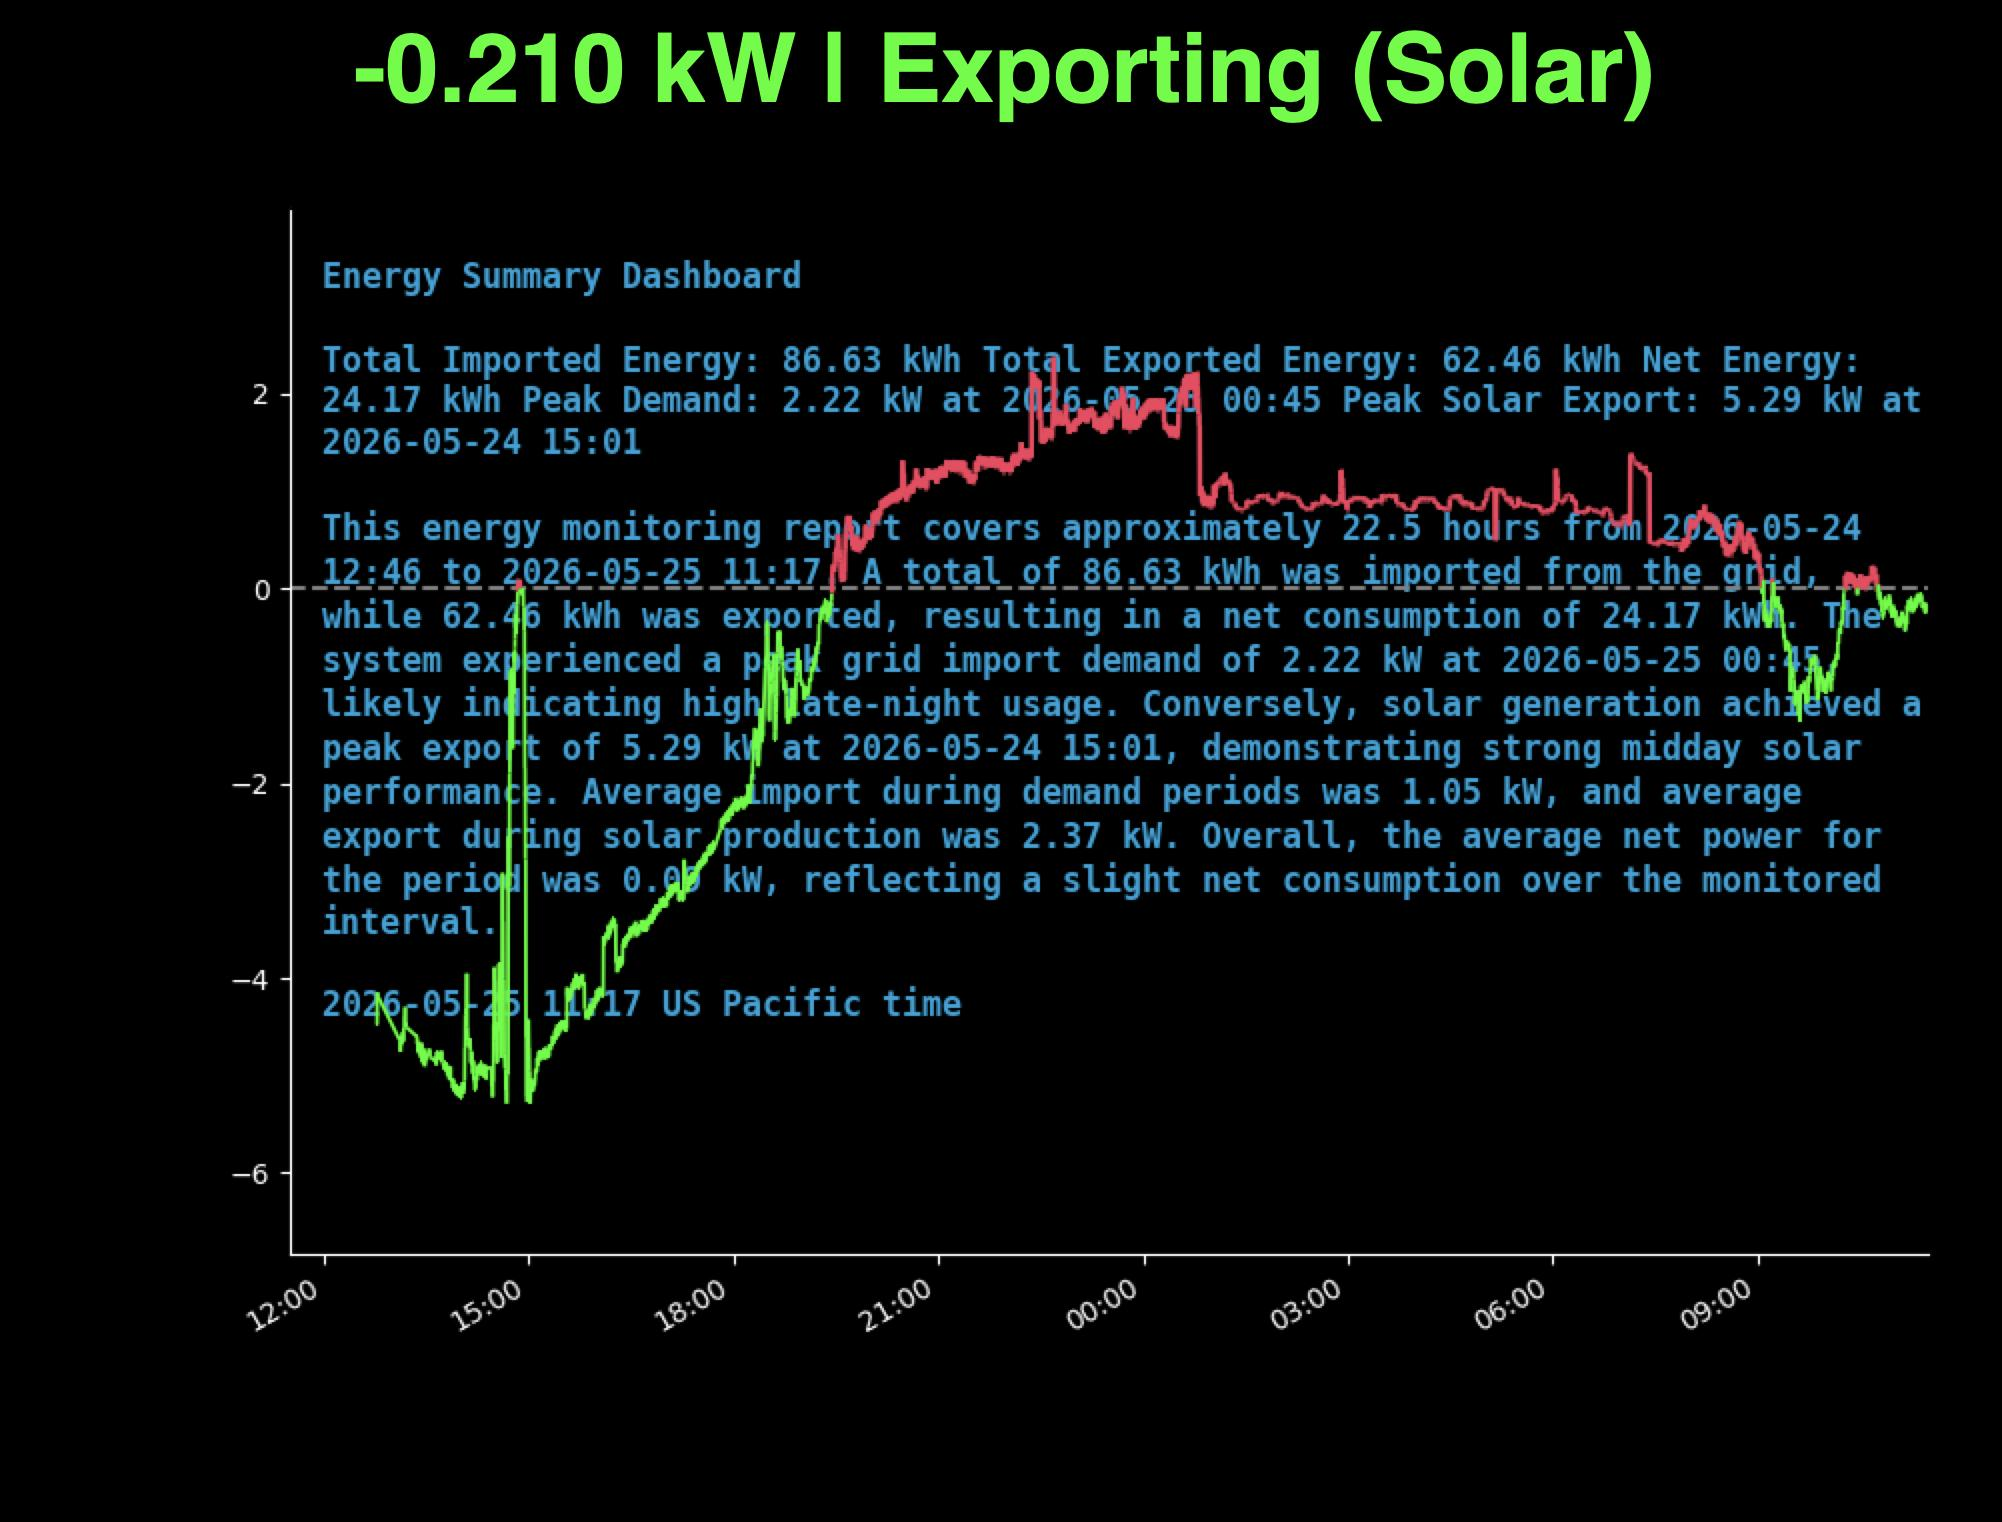
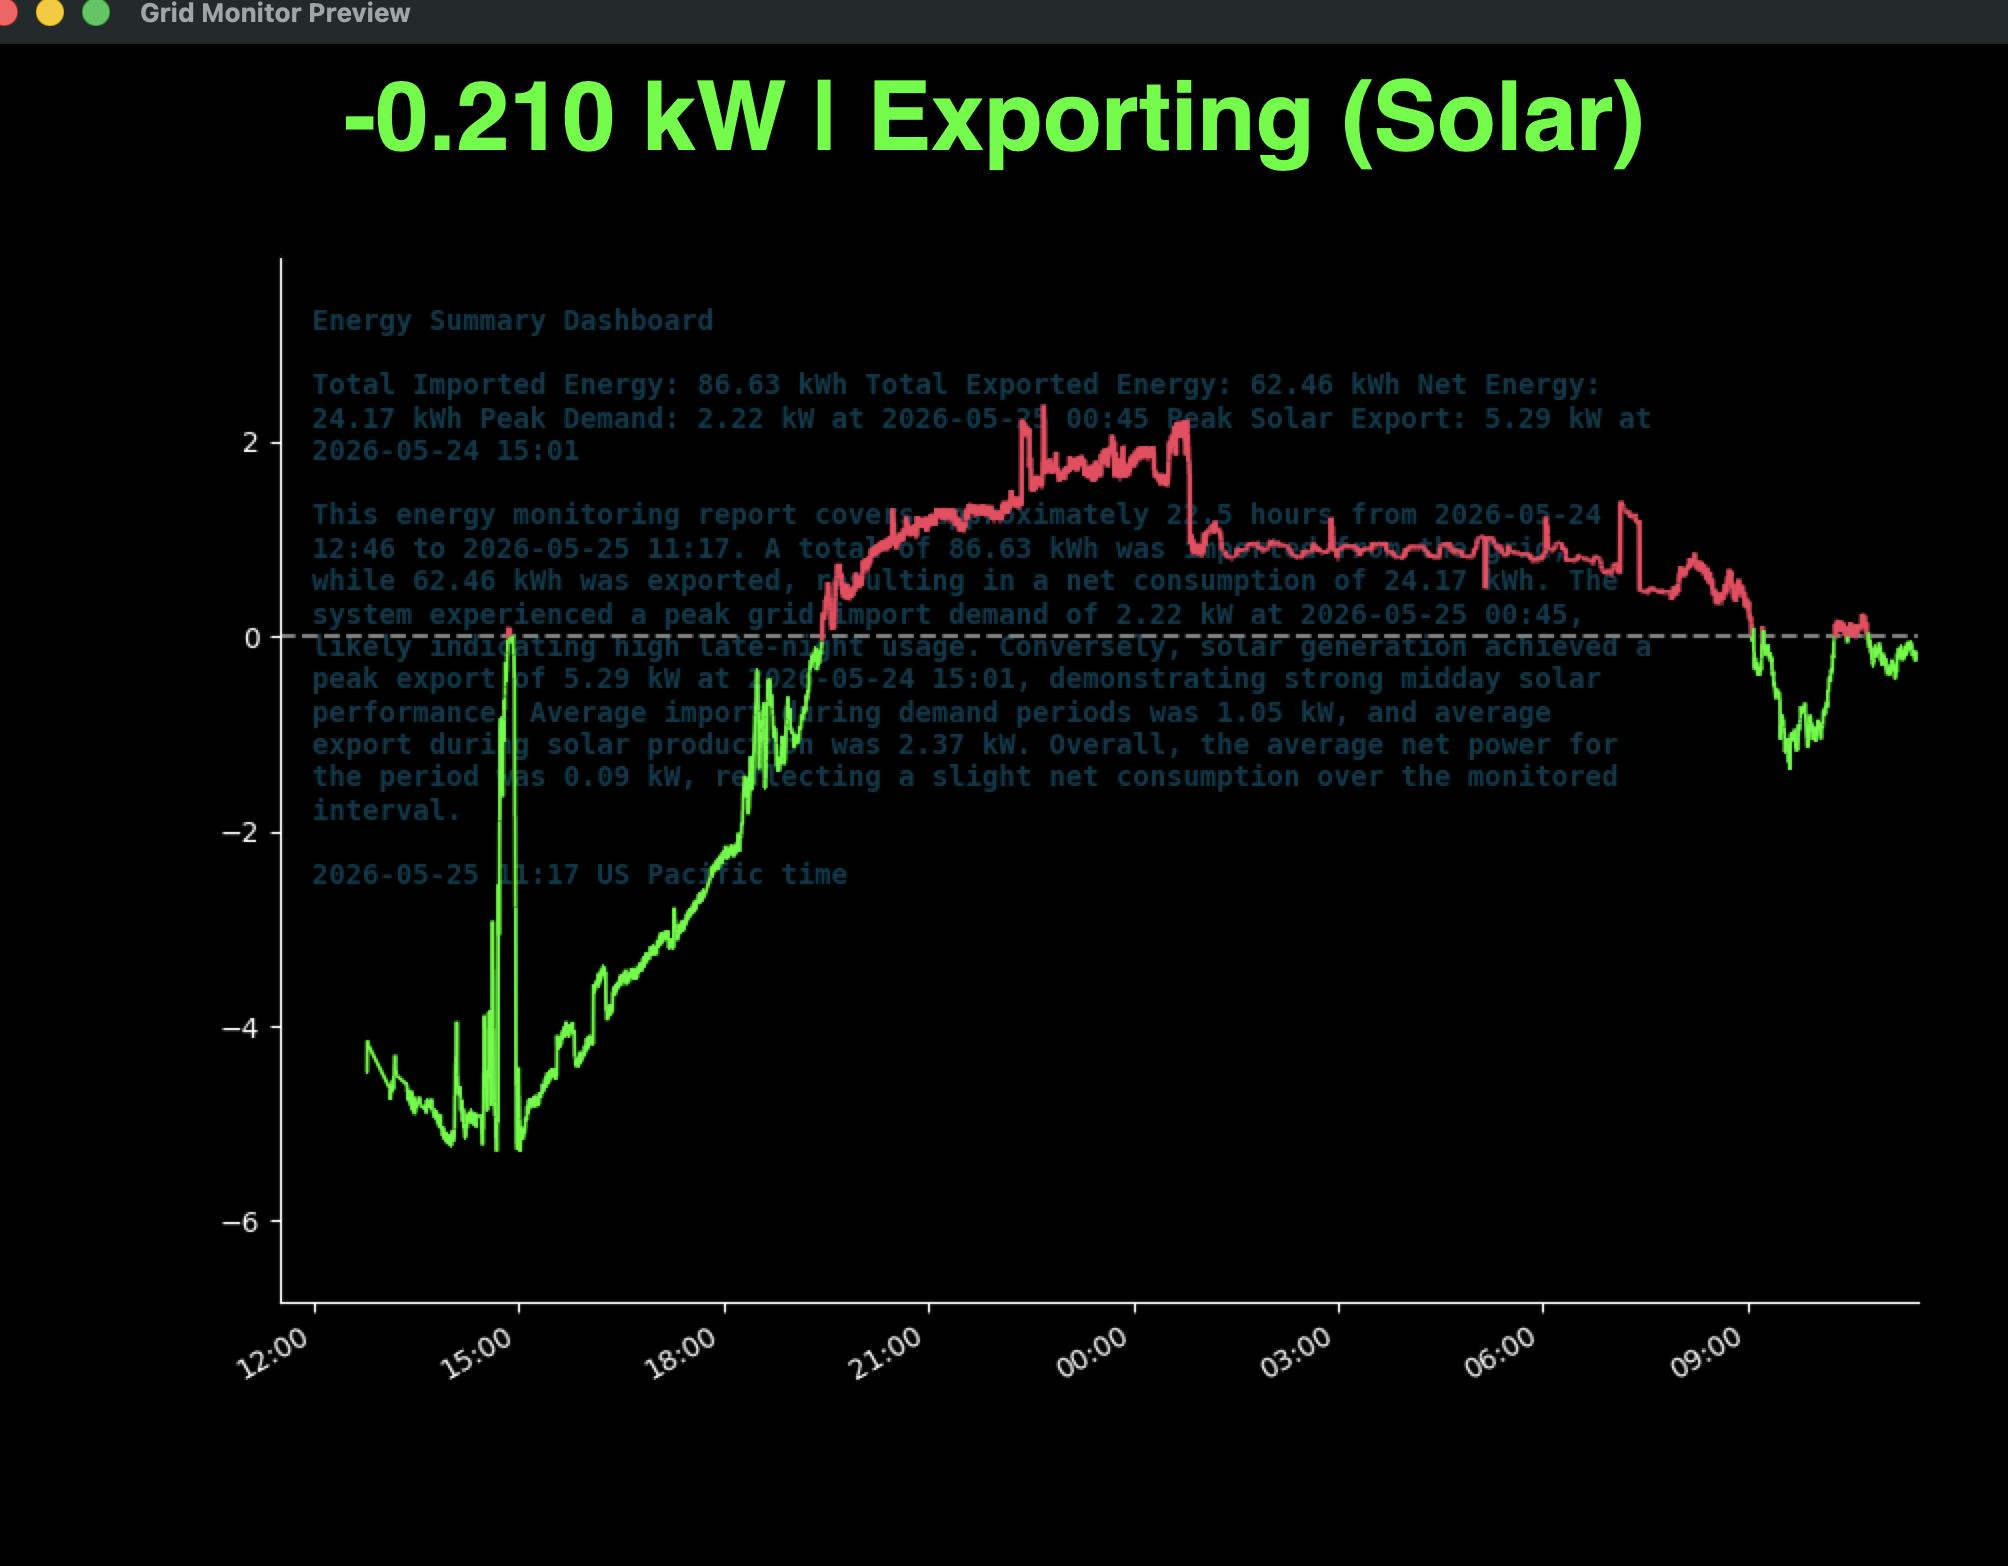
Revert side-panel layout and restore low-alpha watermark design

diff --git a/dashboard.py b/dashboard.py
@@ -37,8 +37,8 @@ PORT: str = '/dev/ttyACM0'
 BAUD: int = 115200
 
 # Gemini Summary Display Settings
-SUMMARY_FONT_SIZE: int = 12
-SUMMARY_ALPHA: float = 0.85
+SUMMARY_FONT_SIZE: int = 10
+SUMMARY_ALPHA: float = 0.30
 SUMMARY_COLOR: str = 'deepskyblue'
 
 # Color tokens for grid status and line plot
@@ -63,7 +63,7 @@ class GridDashboard(tk.Tk):
         fig (Figure): Matplotlib Figure for the grid graph.
         ax (Any): Matplotlib Axes representing the plot area.
         lc (LineCollection): Matplotlib LineCollection plot element.
-        insights_text (tk.Text): Text widget for displaying Gemini-generated energy summaries.
+        summary_text_obj (Any): Matplotlib Text object for displaying background summaries.
         canvas (FigureCanvasTkAgg): Canvas widget connecting matplotlib and Tkinter.
     """
 
@@ -105,52 +105,10 @@ class GridDashboard(tk.Tk):
         )
         self.status_label.pack(pady=5)
 
-        # Main container frame to hold chart and insights side-by-side.
-        self.main_container: tk.Frame = tk.Frame(self, bg='black')
-        self.main_container.pack(fill=tk.BOTH, expand=True)
-
-        # Left side: Chart frame.
-        self.chart_frame: tk.Frame = tk.Frame(self.main_container, bg='black')
-        self.chart_frame.pack(side=tk.LEFT, fill=tk.BOTH, expand=True)
-
-        # Right side: Insights frame with fixed width.
-        self.insights_frame: tk.Frame = tk.Frame(self.main_container, bg='#0f172a', width=350, padx=15, pady=15)
-        self.insights_frame.pack_propagate(False)
-        self.insights_frame.pack(side=tk.RIGHT, fill=tk.Y, expand=False)
-
-        # Title inside insights frame
-        self.insights_title: tk.Label = tk.Label(
-            self.insights_frame,
-            text="GEMINI GRID INSIGHTS",
-            font=('Helvetica', 12, 'bold'),
-            bg='#0f172a',
-            fg='#38bdf8'
-        )
-        self.insights_title.pack(anchor='w', pady=(0, 10))
-
-        # Divider line
-        divider: tk.Frame = tk.Frame(self.insights_frame, bg='#1e293b', height=2)
-        divider.pack(fill=tk.X, pady=(0, 15))
-
-        # Text container for the insights
-        self.insights_text: tk.Text = tk.Text(
-            self.insights_frame,
-            bg='#0f172a',
-            fg='#e2e8f0',
-            font=('Helvetica', 11),
-            wrap=tk.WORD,
-            bd=0,
-            highlightthickness=0,
-            padx=0,
-            pady=0
-        )
-        self.insights_text.pack(fill=tk.BOTH, expand=True)
-        self.insights_text.config(state=tk.DISABLED)
-
         # Matplotlib figure setup.
         self.fig: Figure = Figure(figsize=(5, 3), dpi=100, facecolor='black')
-        # Adjust margins so that labels and ticks fit comfortably on displays.
-        self.fig.subplots_adjust(left=0.10, right=0.95, top=0.95, bottom=0.15)
+        # Adjust margins so that labels and ticks fit comfortably on fullscreen displays.
+        self.fig.subplots_adjust(left=0.15, right=0.95, top=0.95, bottom=0.15)
         
         self.ax: Any = self.fig.add_subplot(111)
         self.ax.set_facecolor('black')
@@ -169,8 +127,22 @@ class GridDashboard(tk.Tk):
         self.lc: LineCollection = LineCollection([], linewidths=1.8, zorder=2)
         self.ax.add_collection(self.lc)
         
-        # Integrate Matplotlib canvas inside the chart frame.
-        self.canvas: FigureCanvasTkAgg = FigureCanvasTkAgg(self.fig, master=self.chart_frame)
+        # Text object to display Gemini-generated summary in the background of the axes.
+        # Uses axes coordinates (transAxes) to place the text in the top-left corner.
+        self.summary_text_obj: Any = self.ax.text(
+            0.02, 0.95, "",
+            transform=self.ax.transAxes,
+            ha='left', va='top',
+            fontsize=SUMMARY_FONT_SIZE,
+            color=SUMMARY_COLOR,
+            alpha=SUMMARY_ALPHA,
+            fontfamily='monospace',
+            weight='bold',
+            zorder=0.1
+        )
+        
+        # Integrate Matplotlib canvas with the Tkinter window.
+        self.canvas: FigureCanvasTkAgg = FigureCanvasTkAgg(self.fig, master=self)
         self.canvas.get_tk_widget().pack(fill=tk.BOTH, expand=True)
 
         # Summary cache settings to prevent redundant API queries on restart
@@ -473,11 +445,9 @@ class GridDashboard(tk.Tk):
                     # If it's less than 30 minutes old, load it immediately
                     if now - ts < datetime.timedelta(minutes=30):
                         self.last_summary_time = ts
-                        self.insights_text.config(state=tk.NORMAL)
-                        self.insights_text.delete("1.0", tk.END)
-                        self.insights_text.insert(tk.END, summary.strip())
-                        self.insights_text.config(state=tk.DISABLED)
+                        self.summary_text_obj.set_text(self.wrap_text(summary.strip()))
                         logging.info(f"Loaded fresh cached Gemini summary from {ts_str}.")
+                        self.fig.canvas.draw_idle()
                     else:
                         logging.info("Cached Gemini summary exists but is older than 30 minutes.")
         except Exception as e:
@@ -680,12 +650,11 @@ class GridDashboard(tk.Tk):
         """Updates the background summary text on the main thread.
 
         Args:
-            text: The new summary text block to render in the insights panel.
+            text: The new summary text block to render in the background.
         """
-        self.insights_text.config(state=tk.NORMAL)
-        self.insights_text.delete("1.0", tk.END)
-        self.insights_text.insert(tk.END, text.strip())
-        self.insights_text.config(state=tk.DISABLED)
+        wrapped_text = self.wrap_text(text)
+        self.summary_text_obj.set_text(wrapped_text)
+        self.fig.canvas.draw_idle()
 
     def destroy(self) -> None:
         """Cleanly destroys the dashboard application, stopping threads and closing serial ports.

diff --git a/render_local_plot.py b/render_local_plot.py
@@ -11,8 +11,8 @@ from matplotlib.collections import LineCollection
 from typing import List, Any
 
 # Match settings from main dashboard.py
-SUMMARY_FONT_SIZE: int = 12
-SUMMARY_ALPHA: float = 0.85
+SUMMARY_FONT_SIZE: int = 10
+SUMMARY_ALPHA: float = 0.30
 SUMMARY_COLOR: str = 'deepskyblue'
 IMPORT_COLOR: str = '#f43f5e'  # Modern rose red
 EXPORT_COLOR: str = '#00ff00'  # Classic neon green
@@ -48,52 +48,9 @@ class OfflineViewer(tk.Tk):
         )
         self.status_label.pack(pady=5)
 
-        # Main container frame to hold chart and insights side-by-side.
-        self.main_container: tk.Frame = tk.Frame(self, bg='black')
-        self.main_container.pack(fill=tk.BOTH, expand=True)
-
-        # Left side: Chart frame.
-        self.chart_frame: tk.Frame = tk.Frame(self.main_container, bg='black')
-        self.chart_frame.pack(side=tk.LEFT, fill=tk.BOTH, expand=True)
-
-        # Right side: Insights frame with fixed width.
-        self.insights_frame: tk.Frame = tk.Frame(self.main_container, bg='#0f172a', width=350, padx=15, pady=15)
-        self.insights_frame.pack_propagate(False)
-        self.insights_frame.pack(side=tk.RIGHT, fill=tk.Y, expand=False)
-
-        # Title inside insights frame
-        self.insights_title: tk.Label = tk.Label(
-            self.insights_frame,
-            text="GEMINI GRID INSIGHTS",
-            font=('Helvetica', 12, 'bold'),
-            bg='#0f172a',
-            fg='#38bdf8'
-        )
-        self.insights_title.pack(anchor='w', pady=(0, 10))
-
-        # Divider line
-        divider: tk.Frame = tk.Frame(self.insights_frame, bg='#1e293b', height=2)
-        divider.pack(fill=tk.X, pady=(0, 15))
-
-        # Text container for the insights
-        self.insights_text: tk.Text = tk.Text(
-            self.insights_frame,
-            bg='#0f172a',
-            fg='#e2e8f0',
-            font=('Helvetica', 11),
-            wrap=tk.WORD,
-            bd=0,
-            highlightthickness=0,
-            padx=0,
-            pady=0
-        )
-        self.insights_text.pack(fill=tk.BOTH, expand=True)
-        self.insights_text.config(state=tk.DISABLED)
-
         # Matplotlib figure setup
         self.fig: Figure = Figure(figsize=(5, 3), dpi=100, facecolor='black')
-        # Adjust margins so that labels and ticks fit comfortably on displays.
-        self.fig.subplots_adjust(left=0.10, right=0.95, top=0.95, bottom=0.15)
+        self.fig.subplots_adjust(left=0.15, right=0.95, top=0.95, bottom=0.15)
         
         self.ax: Any = self.fig.add_subplot(111)
         self.ax.set_facecolor('black')
@@ -112,8 +69,20 @@ class OfflineViewer(tk.Tk):
         self.lc: LineCollection = LineCollection([], linewidths=1.8, zorder=2)
         self.ax.add_collection(self.lc)
         
-        # Integrate Matplotlib canvas inside the chart frame.
-        self.canvas: FigureCanvasTkAgg = FigureCanvasTkAgg(self.fig, master=self.chart_frame)
+        # Background summary text watermark
+        self.summary_text_obj: Any = self.ax.text(
+            0.02, 0.95, "",
+            transform=self.ax.transAxes,
+            ha='left', va='top',
+            fontsize=SUMMARY_FONT_SIZE,
+            color=SUMMARY_COLOR,
+            alpha=SUMMARY_ALPHA,
+            fontfamily='monospace',
+            weight='bold',
+            zorder=0.1
+        )
+        
+        self.canvas: FigureCanvasTkAgg = FigureCanvasTkAgg(self.fig, master=self)
         self.canvas.get_tk_widget().pack(fill=tk.BOTH, expand=True)
 
         # Load cached summary and draw the plot
@@ -184,10 +153,7 @@ class OfflineViewer(tk.Tk):
                 data = json.load(f)
                 summary = data.get("summary")
                 if summary:
-                    self.insights_text.config(state=tk.NORMAL)
-                    self.insights_text.delete("1.0", tk.END)
-                    self.insights_text.insert(tk.END, summary.strip())
-                    self.insights_text.config(state=tk.DISABLED)
+                    self.summary_text_obj.set_text(self.wrap_text(summary.strip()))
                     print("Loaded cached Gemini summary.")
         except Exception as e:
             print(f"Failed to load cache: {e}")
